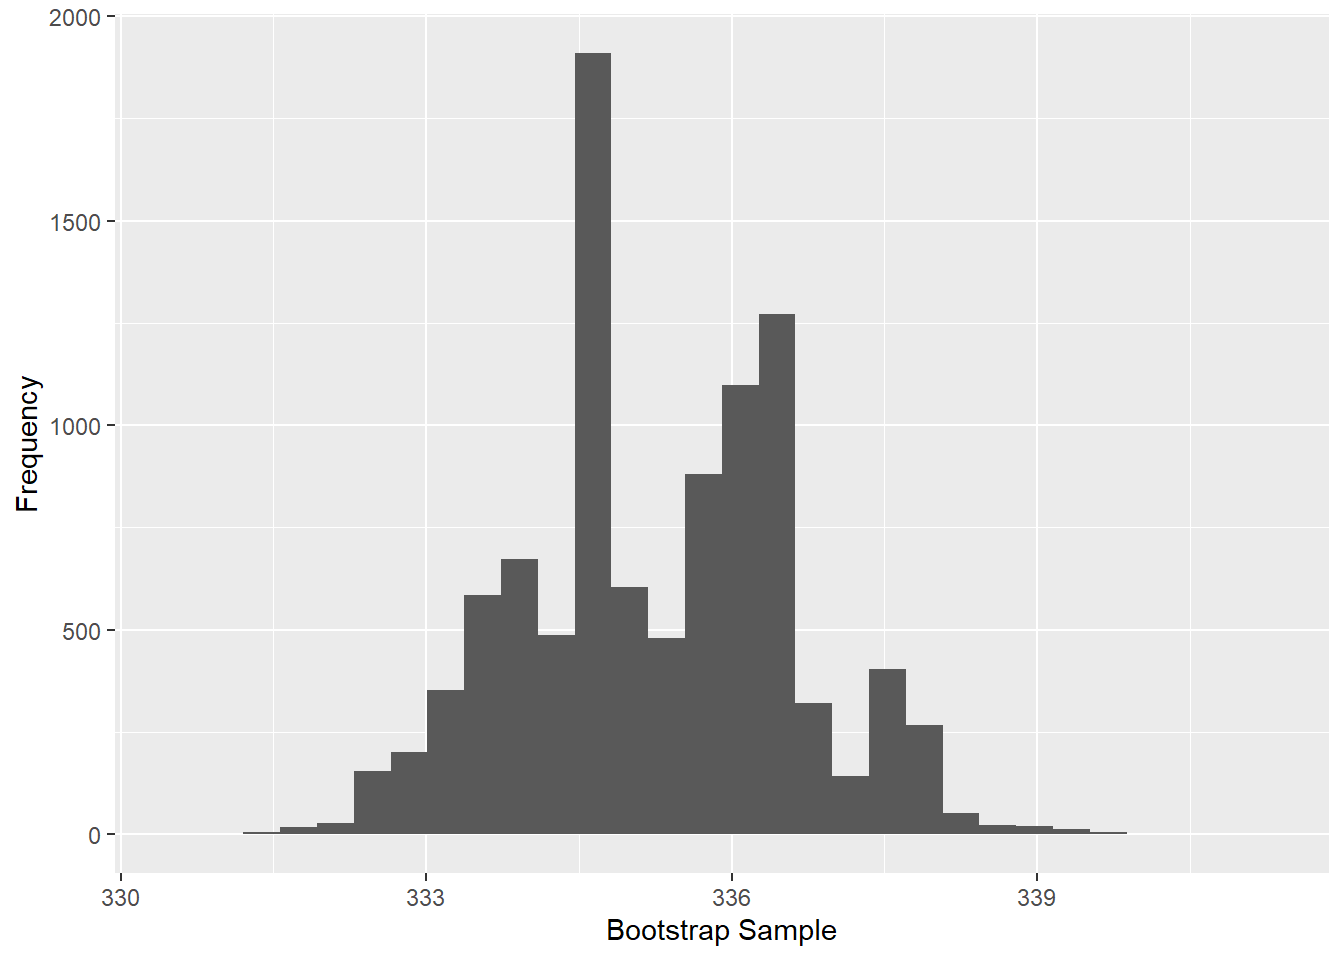
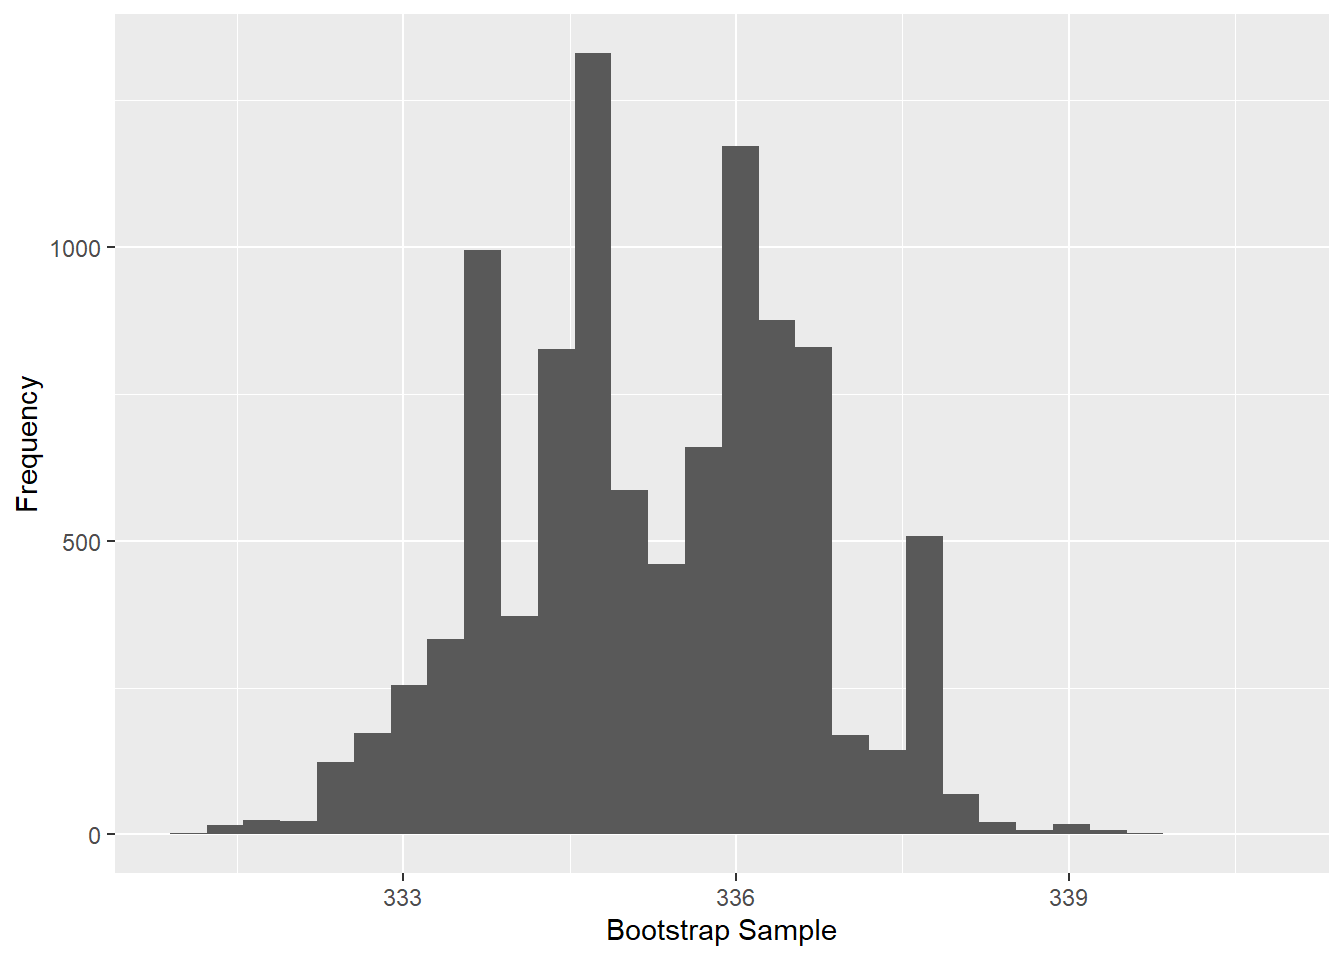
Updated bootstrap info

diff --git a/docs/introduction.html b/docs/introduction.html
@@ -23,7 +23,7 @@
 <meta name="author" content="Dr. Susan Simmons" />
 
 
-<meta name="date" content="2023-09-22" />
+<meta name="date" content="2023-09-25" />
 
   <meta name="viewport" content="width=device-width, initial-scale=1" />
   <meta name="apple-mobile-web-app-capable" content="yes" />
@@ -159,6 +159,7 @@ code span.wa { color: #60a0b0; font-weight: bold; font-style: italic; } /* Warni
 <li class="chapter" data-level="3.1" data-path="decision-trees.html"><a href="decision-trees.html#classification-trees"><i class="fa fa-check"></i><b>3.1</b> Classification Trees</a></li>
 <li class="chapter" data-level="3.2" data-path="decision-trees.html"><a href="decision-trees.html#regression-trees"><i class="fa fa-check"></i><b>3.2</b> Regression Trees</a></li>
 <li class="chapter" data-level="3.3" data-path="decision-trees.html"><a href="decision-trees.html#recursive-partitioning-with-partykit"><i class="fa fa-check"></i><b>3.3</b> Recursive partitioning with partykit</a></li>
+<li class="chapter" data-level="3.4" data-path="decision-trees.html"><a href="decision-trees.html#model-reliance"><i class="fa fa-check"></i><b>3.4</b> Model Reliance</a></li>
 </ul></li>
 <li class="chapter" data-level="4" data-path="clustering.html"><a href="clustering.html"><i class="fa fa-check"></i><b>4</b> Clustering</a>
 <ul>
@@ -253,19 +254,18 @@ code span.wa { color: #60a0b0; font-weight: bold; font-style: italic; } /* Warni
 <span id="cb5-4"><a href="introduction.html#cb5-4" tabindex="-1"></a><span class="do">### Initialize the vector to run the bootstrap algorithm</span></span>
 <span id="cb5-5"><a href="introduction.html#cb5-5" tabindex="-1"></a>boot.med<span class="ot">=</span><span class="fu">vector</span>(<span class="at">length=</span><span class="dv">10000</span>)</span>
 <span id="cb5-6"><a href="introduction.html#cb5-6" tabindex="-1"></a><span class="cf">for</span> (i <span class="cf">in</span> <span class="dv">1</span><span class="sc">:</span><span class="fu">length</span>(boot.med)){</span>
-<span id="cb5-7"><a href="introduction.html#cb5-7" tabindex="-1"></a>  index.boot<span class="ot">=</span><span class="fu">sample</span>(<span class="dv">1</span><span class="sc">:</span><span class="fu">length</span>(co2),<span class="fu">length</span>(co2),<span class="at">replace=</span>T)</span>
-<span id="cb5-8"><a href="introduction.html#cb5-8" tabindex="-1"></a>  boot.samp<span class="ot">=</span>co2[index.boot]</span>
-<span id="cb5-9"><a href="introduction.html#cb5-9" tabindex="-1"></a>  boot.med[i]<span class="ot">=</span><span class="fu">median</span>(boot.samp)</span>
-<span id="cb5-10"><a href="introduction.html#cb5-10" tabindex="-1"></a>}</span>
-<span id="cb5-11"><a href="introduction.html#cb5-11" tabindex="-1"></a><span class="fu">sd</span>(boot.med)</span>
-<span id="cb5-12"><a href="introduction.html#cb5-12" tabindex="-1"></a><span class="do">## [1] 1.345233</span></span>
-<span id="cb5-13"><a href="introduction.html#cb5-13" tabindex="-1"></a>act.med</span>
-<span id="cb5-14"><a href="introduction.html#cb5-14" tabindex="-1"></a><span class="do">## [1] 335.17</span></span>
-<span id="cb5-15"><a href="introduction.html#cb5-15" tabindex="-1"></a><span class="fu">quantile</span>(boot.med,<span class="at">probs =</span> <span class="fu">c</span>(<span class="fl">0.025</span>,<span class="fl">0.975</span>))</span>
-<span id="cb5-16"><a href="introduction.html#cb5-16" tabindex="-1"></a><span class="do">##   2.5%  97.5% </span></span>
-<span id="cb5-17"><a href="introduction.html#cb5-17" tabindex="-1"></a><span class="do">## 332.75 337.80</span></span>
-<span id="cb5-18"><a href="introduction.html#cb5-18" tabindex="-1"></a><span class="fu">ggplot</span>(<span class="at">data=</span><span class="fu">data.frame</span>(boot.med),<span class="fu">aes</span>(<span class="at">x=</span>boot.med))<span class="sc">+</span><span class="fu">geom_histogram</span>() <span class="sc">+</span> <span class="fu">labs</span>(<span class="at">x=</span><span class="st">&quot;Bootstrap Sample&quot;</span>,<span class="at">y=</span><span class="st">&quot;Frequency&quot;</span>)</span>
-<span id="cb5-19"><a href="introduction.html#cb5-19" tabindex="-1"></a><span class="do">## `stat_bin()` using `bins = 30`. Pick better value with `binwidth`.</span></span></code></pre></div>
+<span id="cb5-7"><a href="introduction.html#cb5-7" tabindex="-1"></a>  boot.samp<span class="ot">=</span><span class="fu">sample</span>(co2,<span class="at">replace=</span>T)</span>
+<span id="cb5-8"><a href="introduction.html#cb5-8" tabindex="-1"></a>  boot.med[i]<span class="ot">=</span><span class="fu">median</span>(boot.samp)</span>
+<span id="cb5-9"><a href="introduction.html#cb5-9" tabindex="-1"></a>}</span>
+<span id="cb5-10"><a href="introduction.html#cb5-10" tabindex="-1"></a><span class="fu">sd</span>(boot.med)</span>
+<span id="cb5-11"><a href="introduction.html#cb5-11" tabindex="-1"></a><span class="do">## [1] 1.351849</span></span>
+<span id="cb5-12"><a href="introduction.html#cb5-12" tabindex="-1"></a>act.med</span>
+<span id="cb5-13"><a href="introduction.html#cb5-13" tabindex="-1"></a><span class="do">## [1] 335.17</span></span>
+<span id="cb5-14"><a href="introduction.html#cb5-14" tabindex="-1"></a><span class="fu">quantile</span>(boot.med,<span class="at">probs =</span> <span class="fu">c</span>(<span class="fl">0.025</span>,<span class="fl">0.975</span>))</span>
+<span id="cb5-15"><a href="introduction.html#cb5-15" tabindex="-1"></a><span class="do">##   2.5%  97.5% </span></span>
+<span id="cb5-16"><a href="introduction.html#cb5-16" tabindex="-1"></a><span class="do">## 332.67 337.79</span></span>
+<span id="cb5-17"><a href="introduction.html#cb5-17" tabindex="-1"></a><span class="fu">ggplot</span>(<span class="at">data=</span><span class="fu">data.frame</span>(boot.med),<span class="fu">aes</span>(<span class="at">x=</span>boot.med))<span class="sc">+</span><span class="fu">geom_histogram</span>() <span class="sc">+</span> <span class="fu">labs</span>(<span class="at">x=</span><span class="st">&quot;Bootstrap Sample&quot;</span>,<span class="at">y=</span><span class="st">&quot;Frequency&quot;</span>)</span>
+<span id="cb5-18"><a href="introduction.html#cb5-18" tabindex="-1"></a><span class="do">## `stat_bin()` using `bins = 30`. Pick better value with `binwidth`.</span></span></code></pre></div>
 <p><img src="bookdownproj_files/figure-html/bootstrap%20confidence%20interval-3.png" width="672" />
 The second example is exploring if the median price of homes in Iowa with air conditioning is significantly different than the median price of homes in Iowa without air conditioning (this is using the Ames housing data set from summer!). Recall that distributions of Sale Price were NOT normal (for both with and without air conditioning) and the variability of the distributions were very different. We are able to test the hypothesis:</p>
 <p><span class="math display">\[H_{0}: Median_{YES} = Median_{NO}\]</span></p>
@@ -285,8 +285,8 @@ The second example is exploring if the median price of homes in Iowa with air co
 <pre><code>## `stat_bin()` using `bins = 30`. Pick better value with `binwidth`.</code></pre>
 <p><img src="bookdownproj_files/figure-html/bootstrap%20hypothesis%20test-1.png" width="672" /></p>
 <div class="sourceCode" id="cb8"><pre class="sourceCode r"><code class="sourceCode r"><span id="cb8-1"><a href="introduction.html#cb8-1" tabindex="-1"></a><span class="fu">quantile</span>(diff.stat,<span class="at">probs =</span> <span class="fu">c</span>(<span class="fl">0.005</span>,<span class="fl">0.995</span>))</span></code></pre></div>
-<pre><code>##     0.5%    99.5% 
-## 58875.00 76950.25</code></pre>
+<pre><code>##  0.5% 99.5% 
+## 58750 77000</code></pre>
 <p>Since the confidence interval does NOT include 0, we would conclude that the medians appear to be significantly different.</p>
 </div>
 <div id="adjusting-p-values" class="section level2 hasAnchor" number="2.2">
@@ -734,8 +734,8 @@ bread
 <p><img src="bookdownproj_files/figure-html/association2-2.png" width="672" /></p>
 <div class="sourceCode" id="cb28"><pre class="sourceCode r"><code class="sourceCode r"><span id="cb28-1"><a href="introduction.html#cb28-1" tabindex="-1"></a>top10rules <span class="ot">=</span> <span class="fu">head</span>(rules, <span class="at">n =</span> <span class="dv">10</span>, <span class="at">by =</span> <span class="st">&quot;confidence&quot;</span>)</span>
 <span id="cb28-2"><a href="introduction.html#cb28-2" tabindex="-1"></a><span class="fu">plot</span>(top10rules, <span class="at">method =</span> <span class="st">&quot;graph&quot;</span>,  <span class="at">engine =</span> <span class="st">&quot;htmlwidget&quot;</span>)</span></code></pre></div>
-<div class="visNetwork html-widget html-fill-item-overflow-hidden html-fill-item" id="htmlwidget-1dbc0f84da112f4bd22f" style="width:672px;height:480px;"></div>
-<script type="application/json" data-for="htmlwidget-1dbc0f84da112f4bd22f">{"x":{"nodes":{"id":[1,2,3,4,5,6,7,8,9,10,11,12,13,14,15,16],"label":["bread","butter","egg","milk","oat packet","papaya","rule 1","rule 2","rule 3","rule 4","rule 5","rule 6","rule 7","rule 8","rule 9","rule 10"],"group":[1,1,1,1,1,1,2,2,2,2,2,2,2,2,2,2],"value":[1,1,1,1,1,1,20.8,1,20.8,40.6,1,1,1,100,20.8,40.6],"color":["#CBD2FC","#CBD2FC","#CBD2FC","#CBD2FC","#CBD2FC","#CBD2FC","#EE6666","#EE1B1B","#EE9999","#EECBCB","#EECBCB","#EECBCB","#EEB1B1","#EED4D4","#EEDCDC","#EECBCB"],"title":["bread","butter","egg","milk","oat packet","papaya","<B>[1]<\/B><BR><B>{butter}<\/B><BR>&nbsp;&nbsp; => <B>{bread}<\/B><BR><BR>support = 0.273<BR>confidence = 1<BR>coverage = 0.273<BR>lift = 1.57<BR>count = 3<BR>order = 2<BR>id = 1","<B>[2]<\/B><BR><B>{bread,<BR>&nbsp;&nbsp;oat packet}<\/B><BR>&nbsp;&nbsp; => <B>{papaya}<\/B><BR><BR>support = 0.182<BR>confidence = 1<BR>coverage = 0.182<BR>lift = 1.83<BR>count = 2<BR>order = 3<BR>id = 2","<B>[3]<\/B><BR><B>{oat packet}<\/B><BR>&nbsp;&nbsp; => <B>{papaya}<\/B><BR><BR>support = 0.273<BR>confidence = 0.75<BR>coverage = 0.364<BR>lift = 1.38<BR>count = 3<BR>order = 2<BR>id = 3","<B>[4]<\/B><BR><B>{papaya}<\/B><BR>&nbsp;&nbsp; => <B>{bread}<\/B><BR><BR>support = 0.364<BR>confidence = 0.667<BR>coverage = 0.545<BR>lift = 1.05<BR>count = 4<BR>order = 2<BR>id = 4","<B>[5]<\/B><BR><B>{oat packet,<BR>&nbsp;&nbsp;papaya}<\/B><BR>&nbsp;&nbsp; => <B>{bread}<\/B><BR><BR>support = 0.182<BR>confidence = 0.667<BR>coverage = 0.273<BR>lift = 1.05<BR>count = 2<BR>order = 3<BR>id = 5","<B>[6]<\/B><BR><B>{milk,<BR>&nbsp;&nbsp;papaya}<\/B><BR>&nbsp;&nbsp; => <B>{bread}<\/B><BR><BR>support = 0.182<BR>confidence = 0.667<BR>coverage = 0.273<BR>lift = 1.05<BR>count = 2<BR>order = 3<BR>id = 6","<B>[7]<\/B><BR><B>{bread,<BR>&nbsp;&nbsp;milk}<\/B><BR>&nbsp;&nbsp; => <B>{papaya}<\/B><BR><BR>support = 0.182<BR>confidence = 0.667<BR>coverage = 0.273<BR>lift = 1.22<BR>count = 2<BR>order = 3<BR>id = 7","<B>[8]<\/B><BR><B>{}<\/B><BR>&nbsp;&nbsp; => <B>{bread}<\/B><BR><BR>support = 0.636<BR>confidence = 0.636<BR>coverage = 1<BR>lift = 1<BR>count = 7<BR>order = 1<BR>id = 8","<B>[9]<\/B><BR><B>{egg}<\/B><BR>&nbsp;&nbsp; => <B>{bread}<\/B><BR><BR>support = 0.273<BR>confidence = 0.6<BR>coverage = 0.455<BR>lift = 0.943<BR>count = 3<BR>order = 2<BR>id = 9","<B>[10]<\/B><BR><B>{bread}<\/B><BR>&nbsp;&nbsp; => <B>{papaya}<\/B><BR><BR>support = 0.364<BR>confidence = 0.571<BR>coverage = 0.636<BR>lift = 1.05<BR>count = 4<BR>order = 2<BR>id = 10"],"shape":["box","box","box","box","box","box","circle","circle","circle","circle","circle","circle","circle","circle","circle","circle"],"x":[0.0425191857741551,-0.255797481062768,1,-1,0.0905973519433274,-0.262671690312213,-0.124276536907646,0.194214835770553,-0.29646123498468,-0.223700999491992,-0.00907944702563901,-0.577759201023321,-0.532819344074087,0.599680038406508,0.584177795025411,0.180789668407406],"y":[-0.0481871228304523,1,0.705572068919475,-0.128777730128862,-0.966167878979514,-0.499929585656755,0.556195108129473,-0.576073989250609,-1,-0.187663226857042,-0.605216105370067,-0.266196372108991,-0.0909752644546992,0.0174650111129024,0.397879403210403,-0.312407021287568]},"edges":{"from":[2,1,5,5,6,5,6,4,6,1,4,3,1,7,8,9,10,11,12,13,14,15,16],"to":[7,8,8,9,10,11,11,12,12,13,13,15,16,1,6,6,1,1,1,6,1,1,6],"arrows":["to","to","to","to","to","to","to","to","to","to","to","to","to","to","to","to","to","to","to","to","to","to","to"]},"nodesToDataframe":true,"edgesToDataframe":true,"options":{"width":"100%","height":"100%","nodes":{"shape":"dot","physics":false},"manipulation":{"enabled":false},"edges":{"smooth":false},"physics":{"stabilization":false},"interaction":{"hover":true,"zoomSpeed":1}},"groups":["1","2"],"width":null,"height":null,"idselection":{"enabled":true,"style":"width: 150px; height: 26px","useLabels":true,"main":"Select by id"},"byselection":{"enabled":false,"style":"width: 150px; height: 26px","multiple":false,"hideColor":"rgba(200,200,200,0.5)","highlight":false},"main":null,"submain":null,"footer":null,"background":"rgba(0, 0, 0, 0)","igraphlayout":{"type":"square"},"tooltipStay":300,"tooltipStyle":"position: fixed;visibility:hidden;padding: 5px;white-space: nowrap;font-family: verdana;font-size:14px;font-color:#000000;background-color: #f5f4ed;-moz-border-radius: 3px;-webkit-border-radius: 3px;border-radius: 3px;border: 1px solid #808074;box-shadow: 3px 3px 10px rgba(0, 0, 0, 0.2);","highlight":{"enabled":true,"hoverNearest":true,"degree":1,"algorithm":"all","hideColor":"rgba(200,200,200,0.5)","labelOnly":true},"collapse":{"enabled":false,"fit":false,"resetHighlight":true,"clusterOptions":null,"keepCoord":true,"labelSuffix":"(cluster)"}},"evals":[],"jsHooks":[]}</script>
+<div class="visNetwork html-widget html-fill-item-overflow-hidden html-fill-item" id="htmlwidget-1d07af6bfe9a1e497898" style="width:672px;height:480px;"></div>
+<script type="application/json" data-for="htmlwidget-1d07af6bfe9a1e497898">{"x":{"nodes":{"id":[1,2,3,4,5,6,7,8,9,10,11,12,13,14,15,16],"label":["bread","butter","egg","milk","oat packet","papaya","rule 1","rule 2","rule 3","rule 4","rule 5","rule 6","rule 7","rule 8","rule 9","rule 10"],"group":[1,1,1,1,1,1,2,2,2,2,2,2,2,2,2,2],"value":[1,1,1,1,1,1,20.8,1,20.8,40.6,1,1,1,100,20.8,40.6],"color":["#CBD2FC","#CBD2FC","#CBD2FC","#CBD2FC","#CBD2FC","#CBD2FC","#EE6666","#EE1B1B","#EE9999","#EECBCB","#EECBCB","#EECBCB","#EEB1B1","#EED4D4","#EEDCDC","#EECBCB"],"title":["bread","butter","egg","milk","oat packet","papaya","<B>[1]<\/B><BR><B>{butter}<\/B><BR>&nbsp;&nbsp; => <B>{bread}<\/B><BR><BR>support = 0.273<BR>confidence = 1<BR>coverage = 0.273<BR>lift = 1.57<BR>count = 3<BR>order = 2<BR>id = 1","<B>[2]<\/B><BR><B>{bread,<BR>&nbsp;&nbsp;oat packet}<\/B><BR>&nbsp;&nbsp; => <B>{papaya}<\/B><BR><BR>support = 0.182<BR>confidence = 1<BR>coverage = 0.182<BR>lift = 1.83<BR>count = 2<BR>order = 3<BR>id = 2","<B>[3]<\/B><BR><B>{oat packet}<\/B><BR>&nbsp;&nbsp; => <B>{papaya}<\/B><BR><BR>support = 0.273<BR>confidence = 0.75<BR>coverage = 0.364<BR>lift = 1.38<BR>count = 3<BR>order = 2<BR>id = 3","<B>[4]<\/B><BR><B>{papaya}<\/B><BR>&nbsp;&nbsp; => <B>{bread}<\/B><BR><BR>support = 0.364<BR>confidence = 0.667<BR>coverage = 0.545<BR>lift = 1.05<BR>count = 4<BR>order = 2<BR>id = 4","<B>[5]<\/B><BR><B>{oat packet,<BR>&nbsp;&nbsp;papaya}<\/B><BR>&nbsp;&nbsp; => <B>{bread}<\/B><BR><BR>support = 0.182<BR>confidence = 0.667<BR>coverage = 0.273<BR>lift = 1.05<BR>count = 2<BR>order = 3<BR>id = 5","<B>[6]<\/B><BR><B>{milk,<BR>&nbsp;&nbsp;papaya}<\/B><BR>&nbsp;&nbsp; => <B>{bread}<\/B><BR><BR>support = 0.182<BR>confidence = 0.667<BR>coverage = 0.273<BR>lift = 1.05<BR>count = 2<BR>order = 3<BR>id = 6","<B>[7]<\/B><BR><B>{bread,<BR>&nbsp;&nbsp;milk}<\/B><BR>&nbsp;&nbsp; => <B>{papaya}<\/B><BR><BR>support = 0.182<BR>confidence = 0.667<BR>coverage = 0.273<BR>lift = 1.22<BR>count = 2<BR>order = 3<BR>id = 7","<B>[8]<\/B><BR><B>{}<\/B><BR>&nbsp;&nbsp; => <B>{bread}<\/B><BR><BR>support = 0.636<BR>confidence = 0.636<BR>coverage = 1<BR>lift = 1<BR>count = 7<BR>order = 1<BR>id = 8","<B>[9]<\/B><BR><B>{egg}<\/B><BR>&nbsp;&nbsp; => <B>{bread}<\/B><BR><BR>support = 0.273<BR>confidence = 0.6<BR>coverage = 0.455<BR>lift = 0.943<BR>count = 3<BR>order = 2<BR>id = 9","<B>[10]<\/B><BR><B>{bread}<\/B><BR>&nbsp;&nbsp; => <B>{papaya}<\/B><BR><BR>support = 0.364<BR>confidence = 0.571<BR>coverage = 0.636<BR>lift = 1.05<BR>count = 4<BR>order = 2<BR>id = 10"],"shape":["box","box","box","box","box","box","circle","circle","circle","circle","circle","circle","circle","circle","circle","circle"],"x":[0.0185639821391286,0.893569393745972,-1,1,-0.581600413884499,0.0425408975139587,0.531202579307462,-0.450882017426488,-0.226016260548234,0.200899193554972,-0.27029873416383,0.562831257304344,0.498481683925306,-0.0166444078403437,-0.576781277003207,-0.288199054257134],"y":[0.0548160229325487,1,0.91618017411264,-0.459171082055886,-0.807906326472706,-0.502699273566291,0.598283611676268,-0.389599243895102,-1,-0.184195720788471,-0.501091160954241,-0.228200020480274,-0.412568351125695,0.530228342351997,0.551168147020109,-0.131622020940451]},"edges":{"from":[2,1,5,5,6,5,6,4,6,1,4,3,1,7,8,9,10,11,12,13,14,15,16],"to":[7,8,8,9,10,11,11,12,12,13,13,15,16,1,6,6,1,1,1,6,1,1,6],"arrows":["to","to","to","to","to","to","to","to","to","to","to","to","to","to","to","to","to","to","to","to","to","to","to"]},"nodesToDataframe":true,"edgesToDataframe":true,"options":{"width":"100%","height":"100%","nodes":{"shape":"dot","physics":false},"manipulation":{"enabled":false},"edges":{"smooth":false},"physics":{"stabilization":false},"interaction":{"hover":true,"zoomSpeed":1}},"groups":["1","2"],"width":null,"height":null,"idselection":{"enabled":true,"style":"width: 150px; height: 26px","useLabels":true,"main":"Select by id"},"byselection":{"enabled":false,"style":"width: 150px; height: 26px","multiple":false,"hideColor":"rgba(200,200,200,0.5)","highlight":false},"main":null,"submain":null,"footer":null,"background":"rgba(0, 0, 0, 0)","igraphlayout":{"type":"square"},"tooltipStay":300,"tooltipStyle":"position: fixed;visibility:hidden;padding: 5px;white-space: nowrap;font-family: verdana;font-size:14px;font-color:#000000;background-color: #f5f4ed;-moz-border-radius: 3px;-webkit-border-radius: 3px;border-radius: 3px;border: 1px solid #808074;box-shadow: 3px 3px 10px rgba(0, 0, 0, 0.2);","highlight":{"enabled":true,"hoverNearest":true,"degree":1,"algorithm":"all","hideColor":"rgba(200,200,200,0.5)","labelOnly":true},"collapse":{"enabled":false,"fit":false,"resetHighlight":true,"clusterOptions":null,"keepCoord":true,"labelSuffix":"(cluster)"}},"evals":[],"jsHooks":[]}</script>
 
 </div>
 </div>

diff --git a/docs/404.html b/docs/404.html
@@ -52,6 +52,12 @@
 <link href="libs/anchor-sections-1.1.0/anchor-sections.css" rel="stylesheet" />
 <link href="libs/anchor-sections-1.1.0/anchor-sections-hash.css" rel="stylesheet" />
 <script src="libs/anchor-sections-1.1.0/anchor-sections.js"></script>
+<script src="libs/kePrint-0.0.1/kePrint.js"></script>
+<link href="libs/lightable-0.0.1/lightable.css" rel="stylesheet" />
+<script src="libs/htmlwidgets-1.6.2/htmlwidgets.js"></script>
+<link href="libs/vis-9.1.0/vis-network.min.css" rel="stylesheet" />
+<script src="libs/vis-9.1.0/vis-network.min.js"></script>
+<script src="libs/visNetwork-binding-2.1.2/visNetwork.js"></script>
 
 
 <style type="text/css">
@@ -251,6 +257,20 @@ gitbook.start({
 });
 </script>
 
+<!-- dynamically load mathjax for compatibility with self-contained -->
+<script>
+  (function () {
+    var script = document.createElement("script");
+    script.type = "text/javascript";
+    var src = "true";
+    if (src === "" || src === "true") src = "https://cdnjs.cloudflare.com/ajax/libs/mathjax/2.7.9/latest.js?config=TeX-MML-AM_CHTML";
+    if (location.protocol !== "file:")
+      if (/^https?:/.test(src))
+        src = src.replace(/^https?:/, '');
+    script.src = src;
+    document.getElementsByTagName("head")[0].appendChild(script);
+  })();
+</script>
 </body>
 
 </html>
